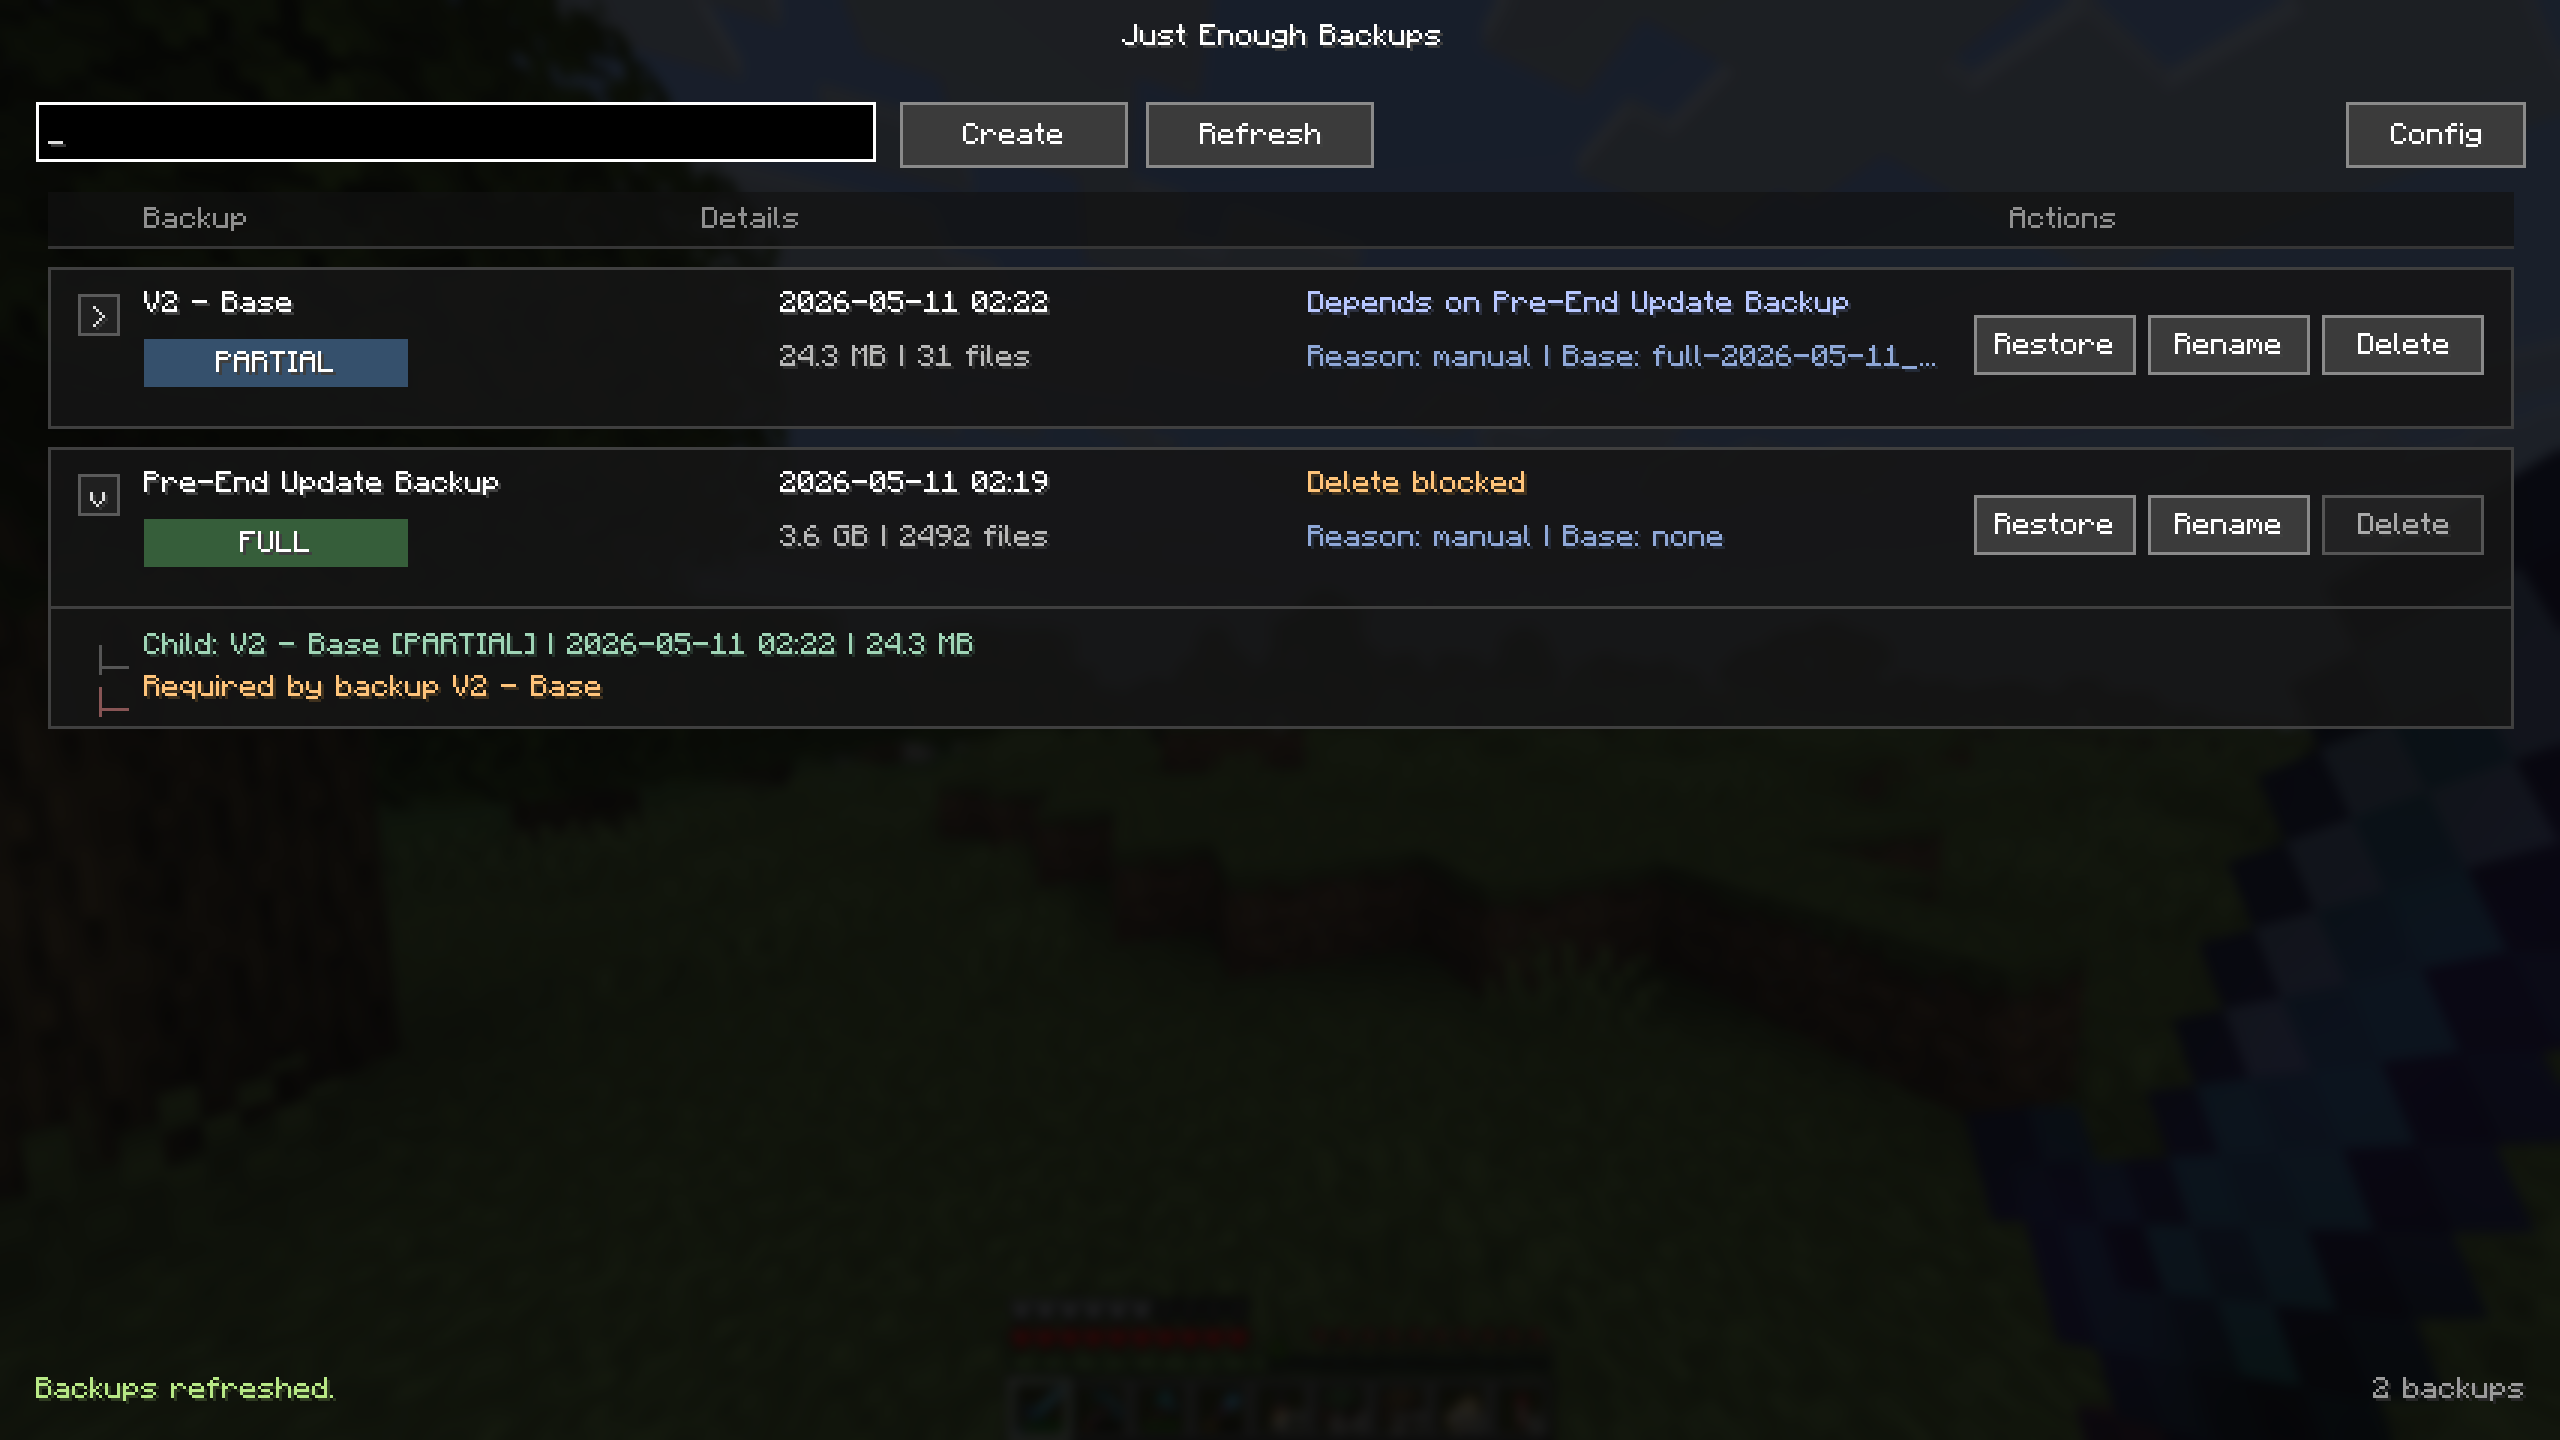
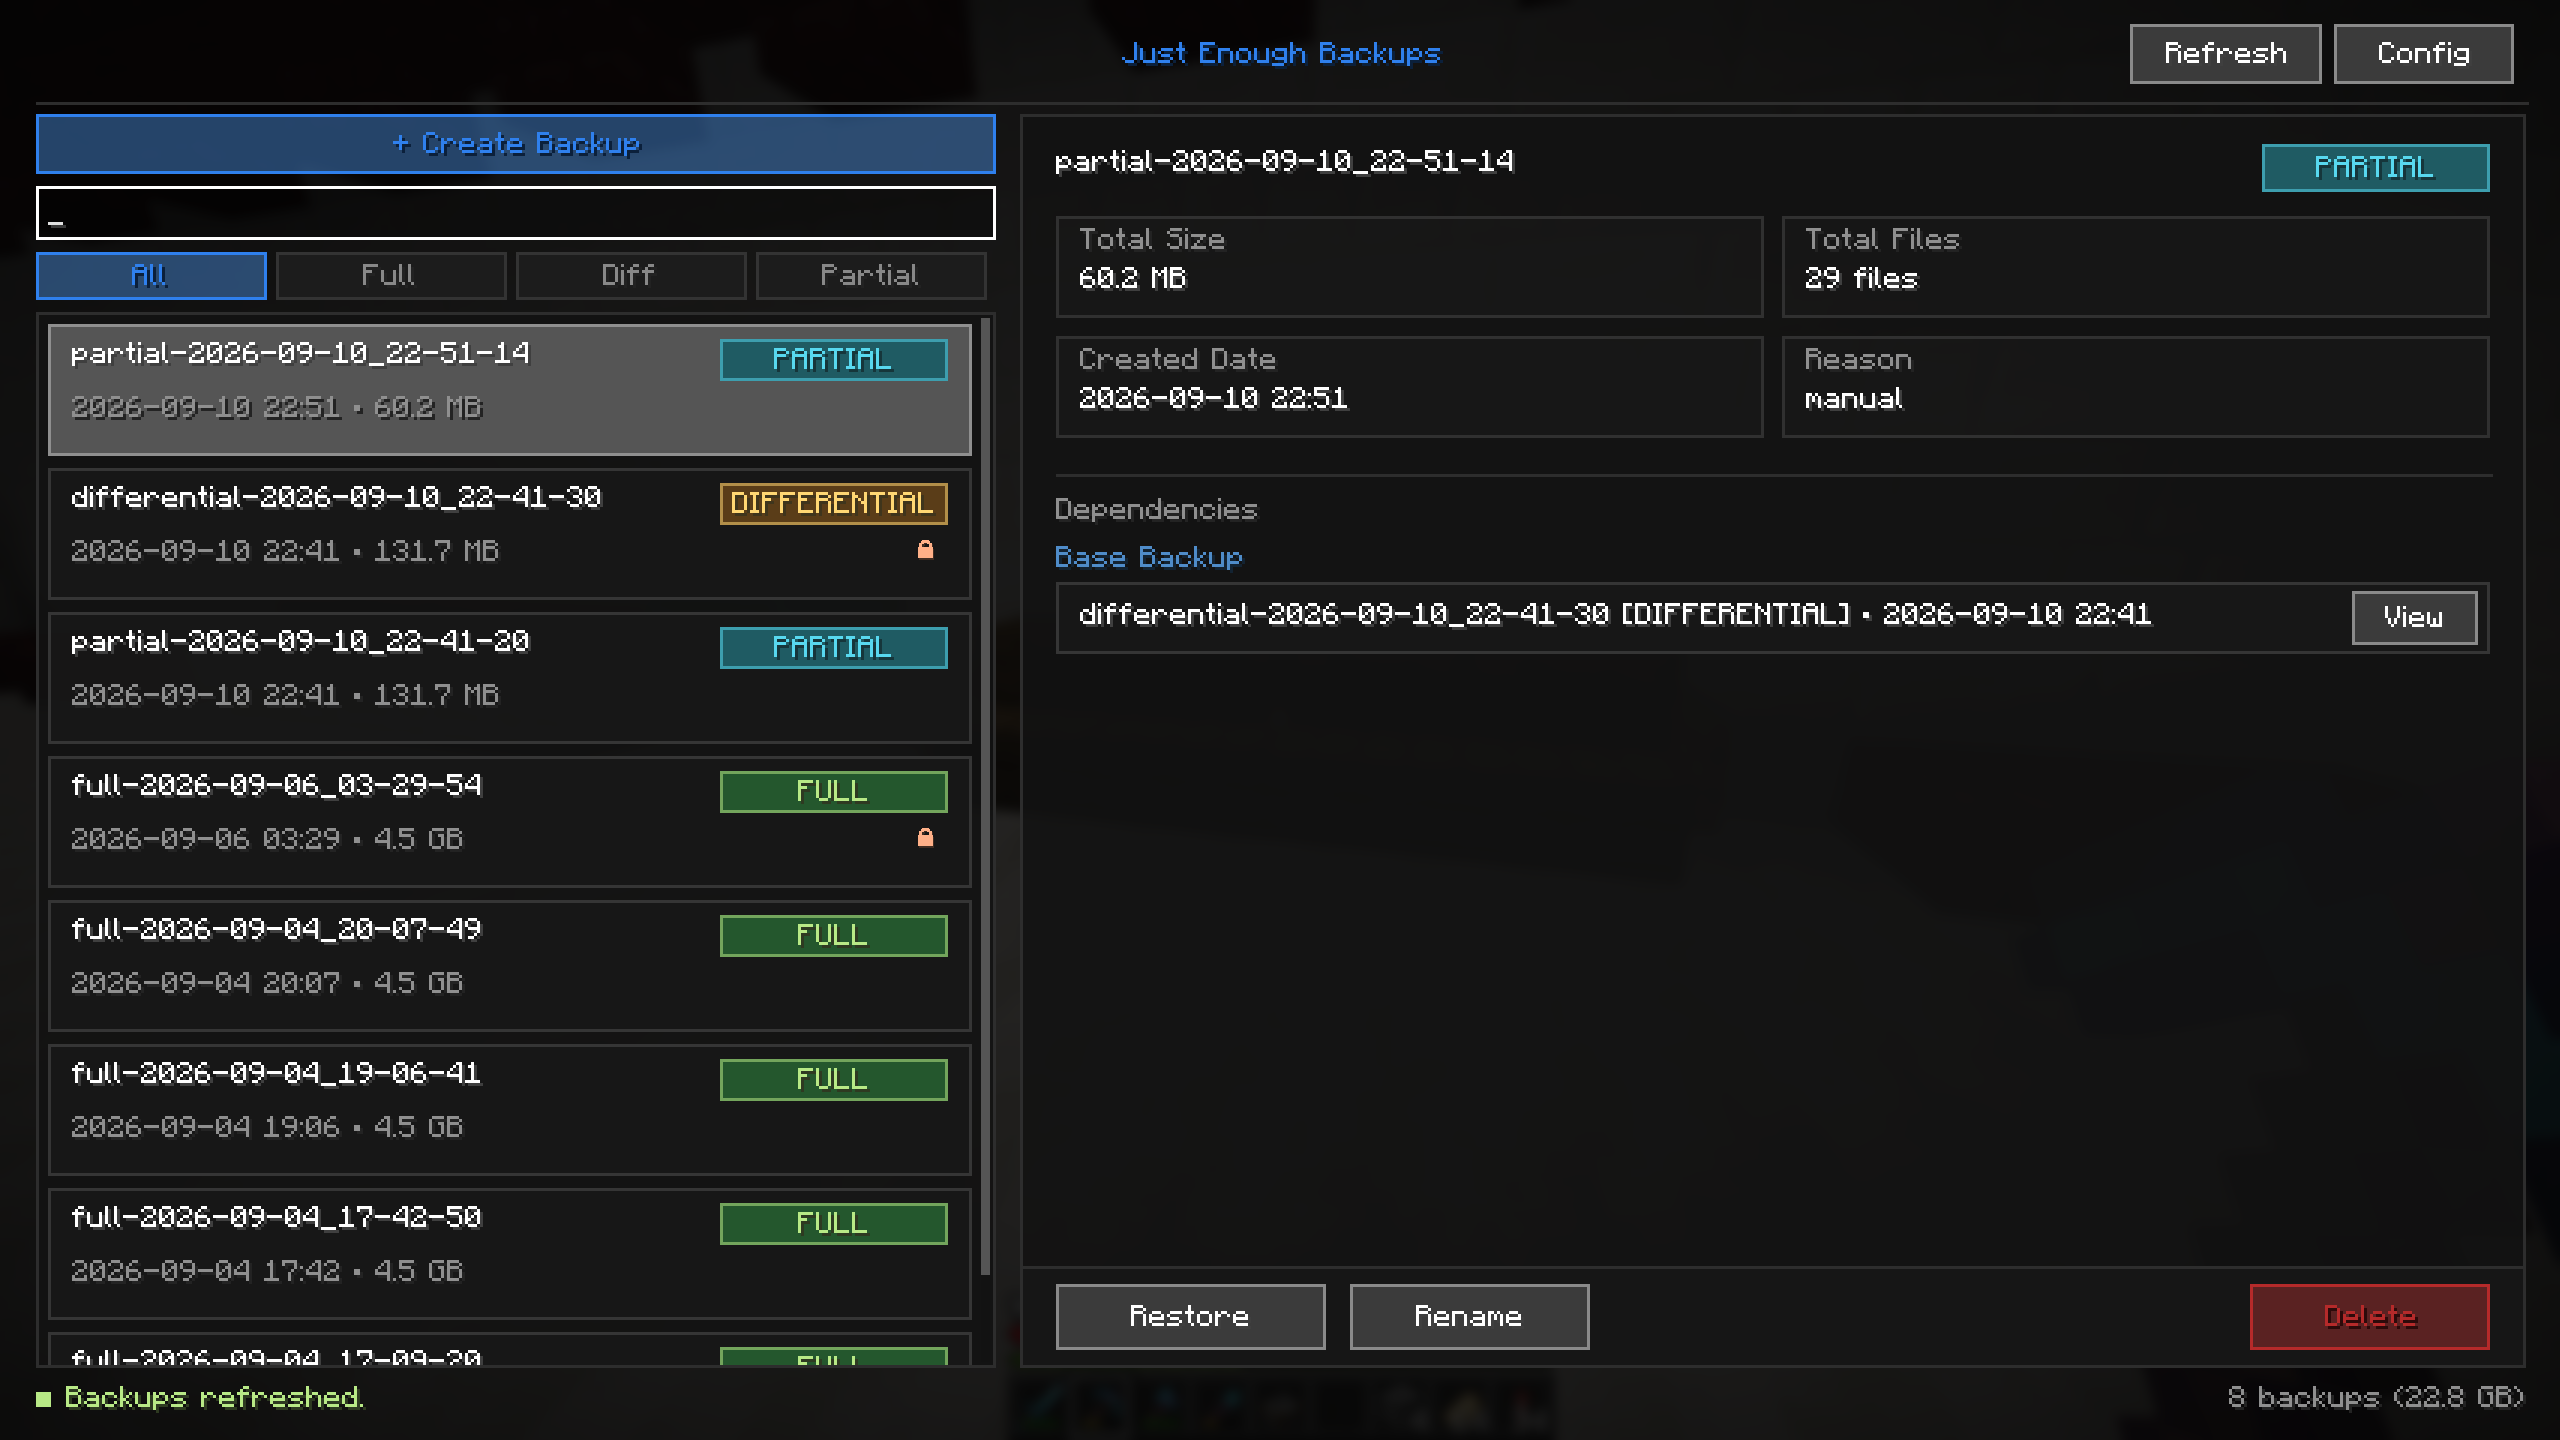
fix: scrollbar changes card width; added new management screen image

diff --git a/src/main/java/com/frandm/justenoughbackups/client/screen/backup/BackupManagementScreen.java b/src/main/java/com/frandm/justenoughbackups/client/screen/backup/BackupManagementScreen.java
@@ -334,6 +334,9 @@ public final class BackupManagementScreen extends Screen implements BackupUiResp
                         : "screen.justenoughbackups.backups.no_matches");
                 graphics.text(font, emptyMsg, leftX + 10, listTop + 16, TEXT_MUTED, true);
             } else {
+                boolean hasScrollbar = maxListScroll() > 0;
+                int cardWidth = hasScrollbar ? (leftW - 12) : (leftW - 8);
+
                 for (int i = 0; i < filteredItems.size(); i++) {
                     BackupListItem item = filteredItems.get(i);
                     int cardY = listTop + 4 + i * (CARD_HEIGHT + CARD_GAP) - listScroll;
@@ -342,7 +345,7 @@ public final class BackupManagementScreen extends Screen implements BackupUiResp
                         continue;
                     }
 
-                    renderBackupCard(graphics, item, leftX + 4, cardY, leftW - 8, mouseX, mouseY);
+                    renderBackupCard(graphics, item, leftX + 4, cardY, cardWidth, mouseX, mouseY);
                 }
             }
         } finally {

diff --git a/CHANGELOG.md b/CHANGELOG.md
@@ -2,7 +2,7 @@
 
 All notable changes to this project are documented in this file.
 
-## 1.2.0.5+26.2 - 03/09/2026
+## 1.2.0.6+26.2 - 10/09/2026
 
 ### Added
 
@@ -11,6 +11,13 @@ All notable changes to this project are documented in this file.
 ### Fixed
 
 - Differential backup base selection now always depend on the latest full backup.
+
+
+## 1.2.0.5+26.1 - 10/09/2026
+
+### Added
+
+- Updated support for 26.1.x
 
 ## 1.2.0.4+26.2 - 02/09/2026
 
